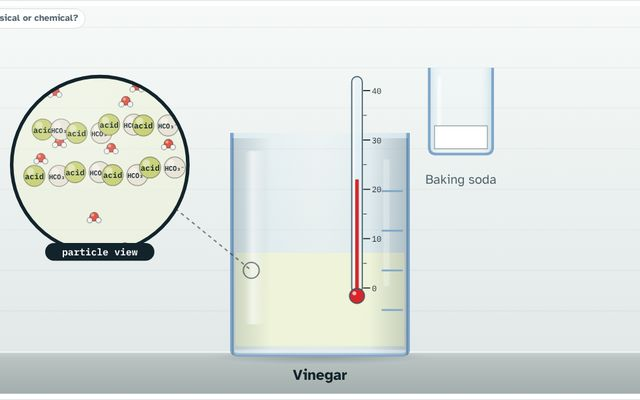
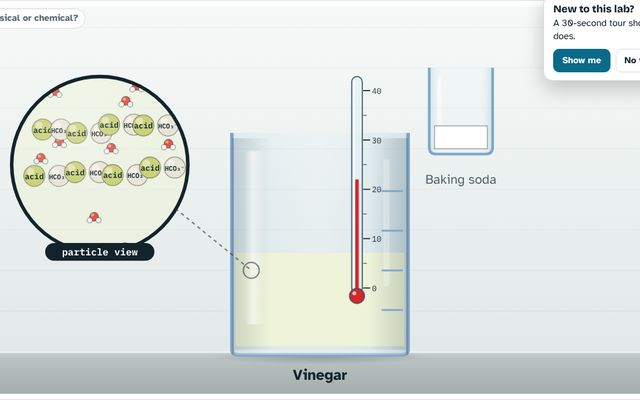
Chemical Change: Exercise screen that balances any typed equation step by step in the lab
- Student types an equation (e.g. Fe + O2 -> Fe2O3, Ca(OH)2 + HCl -> CaCl2 + H2O); it is read, checked and solved (smallest whole numbers up to 8)
- Solve it in the lab: count atoms, then set each coefficient in turn with the reason, Do it for me, check, answer
- tour.js: step option at:'bottom' with avoid, so the card keeps clear of the molecules
- site.css: phone top bar no longer wraps (theme button was dropping onto the page in 10 labs)

Claude-Session: https://claude.ai/code/session_01EJxk2nM6avKJzUWi38t4jE

Changed region(s): [[0.8438, 0.0, 1.0, 0.24]]

diff --git a/chemical-change-lab.html b/chemical-change-lab.html
@@ -124,6 +124,12 @@ footer{color:var(--muted);font-size:.85rem}
 .stage-ui .banner{padding:8px 12px;font-size:14.5px}
 .stage-ui #scrub3{width:100%}
 .stage-ui .pick[aria-pressed="true"]{background:var(--accent);border-color:var(--accent);color:var(--accent-ink)}
+.stage-ui .solo-in{padding:8px 4px 24px}
+.stage-ui .exhead{display:flex;align-items:center;justify-content:space-between;gap:12px;flex-wrap:wrap}.stage-ui .exhead h2{margin:0;font:800 1.35rem/1.2 var(--display)}
+.stage-ui .exin{display:flex;flex-direction:column;gap:6px;font-weight:700}
+.stage-ui .exin input{font:600 1.25rem var(--data);padding:10px 12px;border:1.5px solid var(--line);border-radius:10px;background:var(--stage);color:var(--ink);width:100%}
+.stage-ui .exin input[aria-invalid="true"]{border-color:var(--bad)}
+.stage-ui #exSolve svg{flex:none}
 .stage-ui .play > .extra.obsbar{height:auto;display:flex;align-items:center;gap:14px;padding:10px 12px;overflow:visible}
 .stage-ui .obsbar .obs{flex:1 1 auto;margin:0}
 .stage-ui .obsbar .read{flex:none;display:flex}
@@ -205,8 +211,17 @@ footer{color:var(--muted);font-size:.85rem}
       <p class="fb" id="fb4" hidden></p></section>
   </aside>
 </section>
+<section class="screen solo" id="p-ex" data-screens="ex" hidden><div class="solo-in">
+  <div class="exhead"><h2>Exercise: balance your equation</h2><div class="row"><button class="btn primary" type="button" id="exSolve"><svg viewBox="0 0 24 24" width="18" height="18" aria-hidden="true"><path d="M8 5l11 7-11 7z" fill="currentColor"/></svg>Solve it in the lab</button></div></div>
+  <section class="group">
+    <label class="exin"><span>Type the equation from your exercise (without the big numbers)</span><input id="exEq" type="text" autocomplete="off" spellcheck="false" autocapitalize="off" value="Fe + O2 -> Fe2O3" aria-describedby="exMsg"></label>
+    <p class="note">Write formulas with normal numbers: H2O, Ca(OH)2. Use -> or = for the arrow.</p>
+    <div class="picks" id="exEgs" aria-label="Examples"></div>
+    <p class="fb" id="exMsg" aria-live="polite"></p>
+  </section>
+</div></section>
 </main>
-<script>window.LAB = { screens: [ { id: 'signs', name: 'Signs', tab: 'signs' }, { id: 'mass', name: 'Mass', tab: 'mass' }, { id: 'atoms', name: 'Atoms', tab: 'atoms' }, { id: 'bal', name: 'Balance', tab: 'bal' } ] };</script>
+<script>window.LAB = { screens: [ { id: 'signs', name: 'Signs', tab: 'signs' }, { id: 'mass', name: 'Mass', tab: 'mass' }, { id: 'atoms', name: 'Atoms', tab: 'atoms' }, { id: 'bal', name: 'Balance', tab: 'bal' }, { id: 'ex', name: 'Exercise' } ] };</script>
 <script src="lab-svg.js"></script>
 <script>
 (function(){
@@ -563,8 +578,66 @@ $('#hint4').onclick=()=>{const e=EQ4[i4],fb=$('#fb4');fb.hidden=false;fb.classNa
 picks1();reset1();reset2();build3();reset4();
 matchMedia('(prefers-color-scheme: dark)').addEventListener('change',()=>{draw1();draw2();draw3();draw4()});
 new MutationObserver(()=>{draw1();draw2();draw3();draw4()}).observe(document.documentElement,{attributes:true,attributeFilter:['data-theme']});
+
+/* ===================== EXERCISE: balance any equation, step by step in the lab (tour.js) ===================== */
+const ELN={H:'Hydrogen',He:'Helium',Li:'Lithium',Be:'Beryllium',B:'Boron',C:'Carbon',N:'Nitrogen',O:'Oxygen',F:'Fluorine',Ne:'Neon',Na:'Sodium',Mg:'Magnesium',Al:'Aluminum',Si:'Silicon',P:'Phosphorus',S:'Sulfur',Cl:'Chlorine',Ar:'Argon',K:'Potassium',Ca:'Calcium',
+ Fe:'Iron',Cu:'Copper',Zn:'Zinc',Ag:'Silver',Au:'Gold',Pb:'Lead',Sn:'Tin',Mn:'Manganese',Cr:'Chromium',Ni:'Nickel',Co:'Cobalt',Ba:'Barium',Br:'Bromine',I:'Iodine',Hg:'Mercury',Li2:'',Sr:'Strontium',Ti:'Titanium',Pt:'Platinum',U:'Uranium'};
+const ELC={Fe:'#B5651D',Cu:'#C87533',Zn:'#8FA3B0',Ag:'#C9CED4',Au:'#E2B23C',Pb:'#5C6670',K:'#8E44AD',Ca:'#7FB77E',P:'#F08A24',Br:'#A0322D',I:'#7B3F9E',F:'#90E0A0',Si:'#C9A27E',Ba:'#59B3A2',Mn:'#9C7AB8',Cr:'#7A9CB8',Ni:'#6FA287',Hg:'#A9B4BF',Li:'#C96F6F',B:'#E9A8A0',Sn:'#9AA3AA',Co:'#3F6FB8'};
+const toAscii=t=>t.replace(/[₀-₉]/g,c=>'0123456789'['₀₁₂₃₄₅₆₇₈₉'.indexOf(c)]);
+function parseF(f){let i=0;const st=[{}];while(i<f.length){const ch=f[i];
+  if(ch==='('){st.push({});i++;continue}
+  if(ch===')'){i++;let n='';while(/\d/.test(f[i]||''))n+=f[i++];const g=st.pop(),k=n?+n:1;if(!st.length)return null;for(const e in g)st[st.length-1][e]=(st[st.length-1][e]||0)+g[e]*k;continue}
+  const m=/^([A-Z][a-z]?)(\d*)/.exec(f.slice(i));if(!m)return null;if(!ELN[m[1]])return {bad:m[1]};const k=m[2]?+m[2]:1;st[st.length-1][m[1]]=(st[st.length-1][m[1]]||0)+k;i+=m[0].length}
+ return st.length===1?st[0]:null}
+function parseEq(t){t=toAscii(String(t)).replace(/\s+/g,'').replace(/→|⟶|-+>|=+>?/g,'>');const sides=t.split('>');if(sides.length!==2||!sides[0]||!sides[1])return {err:'Use one arrow (->) between the reactants and the products.'};
+ const L=[],R=[];for(const [side,arr] of [[sides[0],L],[sides[1],R]])for(let f of side.split('+')){if(!f)return {err:'There is a + with nothing after it.'};f=f.replace(/^\d+/,'');const a=parseF(f);if(!a)return {err:'I cannot read “'+f+'”. Check the capital letters and the brackets.'};if(a.bad)return {err:'“'+a.bad+'” is not an element I know.'};arr.push({f,a})}
+ const els=[...new Set([...L,...R].flatMap(x=>Object.keys(x.a)))];for(const e of els){const l=L.some(x=>x.a[e]),r=R.some(x=>x.a[e]);if(!l||!r)return {err:(ELN[e]||e)+' ('+e+') is only on one side, so this equation cannot be balanced. Check the formulas.'}}
+ if(L.length+R.length>6)return {err:'Use at most 6 formulas.'};
+ // smallest whole numbers from 1 to 8 that balance every element
+ const sp=L.concat(R),n=sp.length,co=new Array(n).fill(1);let best=null;
+ (function rec(k){if(best)return;if(k===n){if(els.every(e=>L.reduce((s,x,i)=>s+co[i]*(x.a[e]||0),0)===R.reduce((s,x,i)=>s+co[L.length+i]*(x.a[e]||0),0)))best=co.slice();return}for(let c=1;c<=8&&!best;c++){co[k]=c;rec(k+1)}})(0);
+ if(!best)return {err:'This one needs numbers bigger than 8. The lab’s buttons only go up to 8.'};
+ const g=best.reduce((a,b)=>gcd(a,b));return {L,R,els,ans:best.map(c=>c/g)}}
+function geoOf(a){const atoms=[];Object.keys(a).sort((x,y)=>(x==='H')-(y==='H')||(x==='O')-(y==='O')).forEach(e=>{for(let k=0;k<a[e];k++)atoms.push(e)});
+ const pos=[[0,0],[26,0],[-26,0],[13,-22],[-13,-22],[13,22],[-13,22],[39,-22],[-39,-22],[39,22],[-39,22],[52,0],[-52,0],[0,-44],[0,44],[26,-44],[-26,-44],[26,44],[-26,44]];
+ const g={a:atoms.slice(0,pos.length).map((e,i)=>[e,pos[i][0],pos[i][1]]),b:[]};for(let i=1;i<g.a.length;i++){let bj=0,bd=1e9;for(let j=0;j<i;j++){const d=Math.hypot(g.a[i][1]-g.a[j][1],g.a[i][2]-g.a[j][2]);if(d<bd){bd=d;bj=j}}g.b.push([bj,i])}
+ const xs=g.a.map(q=>q[1]);return {g,w:Math.max(...xs)-Math.min(...xs)+34}}
+function useEq(P){const key=P.L.map(x=>x.f).join('+')+'>'+P.R.map(x=>x.f).join('+');let i=EQ4.findIndex(e=>e.L.concat(e.R).join('+')===P.L.map(x=>x.f).concat(P.R.map(x=>x.f)).join('+'));
+ [...P.L,...P.R].forEach(x=>{if(!GEO[x.f]){const q=geoOf(x.a);GEO[x.f]=q.g;WID[x.f]=q.w}Object.keys(x.a).forEach(e=>{if(!AT[e])AT[e]={c:ELC[e]||'#A7B0B8',r:15,m:0,name:ELN[e]||e}})});
+ if(i<0){EQ4.push({L:P.L.map(x=>x.f),R:P.R.map(x=>x.f),ans:P.ans,mine:1});i=EQ4.length-1}i4=i;reset4();return i}
+const EXEGS=['Fe + O2 -> Fe2O3','C3H8 + O2 -> CO2 + H2O','KClO3 -> KCl + O2','Ca(OH)2 + HCl -> CaCl2 + H2O','Al + HCl -> AlCl3 + H2','N2 + H2 -> NH3'];
+$('#exEgs').innerHTML=EXEGS.map(t=>`<button class="pick" type="button" data-eq="${t}">${sub(t.replace('->','→'))}</button>`).join('');
+$$('#exEgs .pick').forEach(b=>b.onclick=()=>{$('#exEq').value=b.dataset.eq;exCheck()});
+function exCheck(){const P=parseEq($('#exEq').value),m=$('#exMsg');$('#exEq').setAttribute('aria-invalid',P.err?'true':'false');m.className='fb '+(P.err?'bad':'good');
+ m.innerHTML=P.err?'<b>'+P.err+'</b>':'<b>Ready.</b> '+P.L.map(x=>sub(x.f)).join(' + ')+' → '+P.R.map(x=>sub(x.f)).join(' + ')+' · elements: '+P.els.map(e=>ELN[e]+' ('+e+')').join(', ')+'.';return P.err?null:P}
+$('#exEq').addEventListener('input',exCheck);$('#exEq').addEventListener('keydown',e=>{if(e.key==='Enter')exSolve()});exCheck();
+function exSolve(){const P=exCheck();if(!P||!window.Tour)return;
+ const sp=P.L.concat(P.R),nL=P.L.length,ans=P.ans,side=i=>i<nL?'L':'R',cnt=(e,i)=>sp[i].a[e]||0,tot=i=>Object.values(sp[i].a).reduce((a,b)=>a+b,0);
+ const atomsTxt=(i,c)=>Object.keys(sp[i].a).map(e=>c*cnt(e,i)+' '+e).join(', ');
+ // the order: the biggest formula first, single elements last; each next formula is the one an element now fixes
+ const set=new Set(),plan=[];const isEl=i=>Object.keys(sp[i].a).length===1;
+ let first=sp.map((x,i)=>i).sort((a,b)=>(isEl(a)-isEl(b))||tot(b)-tot(a))[0];plan.push({i:first,why:null});set.add(first);
+ while(set.size<sp.length){let pick=null;for(const i of sp.map((x,k)=>k).filter(k=>!set.has(k)).sort((a,b)=>isEl(a)-isEl(b))){for(const e of Object.keys(sp[i].a)){const others=sp.map((x,k)=>k).filter(k=>k!==i&&cnt(e,k));if(others.every(k=>set.has(k))){pick={i,e};break}}if(pick)break}
+  if(!pick){const i=sp.map((x,k)=>k).find(k=>!set.has(k));pick={i,e:Object.keys(sp[i].a)[0]}}plan.push({i:pick.i,why:pick.e});set.add(pick.i)}
+ const calc=t=>'<div class="t-calc">'+t+'</div>',F=i=>sub(sp[i].f),eqTxt=c=>P.L.map((x,i)=>(c&&c[i]>1?c[i]:'')+sub(x.f)).join(' + ')+' → '+P.R.map((x,i)=>(c&&c[nL+i]>1?c[nL+i]:'')+sub(x.f)).join(' + ');
+ const stepEl=i=>()=>{const b=document.querySelector('#eq4 .step button[data-i="'+i+'"]');return b&&b.parentElement};
+ const steps=[{title:'Balance it in the lab',html:'<p>Your equation: <b>'+eqTxt()+'</b></p><p>We count the atoms on each side, then put one number in front of each formula until every element matches.</p><p class="note">The lab balances the formulas exactly as you typed them, so check them first.</p>',
+   onShow:()=>{const b=document.querySelector('.lg-nav [data-ph="bal"]');if(b&&document.documentElement.getAttribute('data-screen')!=='bal')b.click();useEq(P)}},
+  {el:()=>$('#count4').closest('.group'),title:'Count the atoms',html:'<p>With a 1 in front of every formula, this table counts each kind of atom on the left and on the right. The ✗ rows do not match yet.</p><p><b>Only change the big numbers in front.</b> The small numbers belong to the formula: changing them would make a different substance.</p>'}];
+ plan.forEach((p,k)=>{const i=p.i,c=ans[i];let why;
+  if(p.why==null)why='Start with '+F(i)+', the formula with the most atoms. We need '+c+' of '+(c>1?'them':'it')+': '+c+' × '+F(i)+' = '+atomsTxt(i,c)+'.';
+  else{const e=p.why,k1=cnt(e,i),oth=sp.map((x,q)=>q).filter(q=>q!==i&&cnt(e,q)),opp=oth.filter(q=>side(q)!==side(i)),same=oth.filter(q=>side(q)===side(i)),N=opp.reduce((s,q)=>s+ans[q]*cnt(e,q),0),Sm=same.reduce((s,q)=>s+ans[q]*cnt(e,q),0);
+   const one=Object.keys(sp[i].a).length===1&&k1===1,need=N-Sm;
+   why=ELN[e]+' ('+e+'): the '+(side(i)==='L'?'right':'left')+' side has '+N+' '+e+'.'+(Sm?' '+Sm+' of them are already on this side, so '+need+' more are needed.':'')+(one?' Each '+F(i)+' is one atom, so we need '+c+' × '+F(i)+'.':' Each '+F(i)+' has '+k1+' '+e+', so we need '+need+' ÷ '+k1+' = '+c+' × '+F(i)+'.')}
+  steps.push({el:stepEl(i),at:'bottom',avoid:'#s4 circle, #count4',title:'Set the number in front of '+F(i),html:'<p>'+why+'</p><p>'+(c===1?'It already shows <b>1</b>, so leave it.':'Press <b>+</b> or <b>−</b> until it shows <b>'+c+'</b>.')+'</p>',
+   wait:()=>co4[i]===c,doIt:()=>{co4[i]=c;render4()},done:()=>{const[cL,cR]=counts4();const fixed=Object.keys(sp[i].a).filter(e=>cL[e]===cR[e]);return c+' × '+F(i)+(fixed.length?'. Now '+fixed.map(e=>e).join(' and ')+' match'+(fixed.length>1?'':'es')+'.':'.')},auto:1100})});
+ steps.push({el:'#ban4',title:'Check',html:'<p>Every row of the table should show ✓, and the numbers should be the smallest whole numbers.</p>',wait:()=>{const[cL,cR]=counts4();return Object.keys(cL).every(k=>cL[k]===cR[k])},done:'Balanced! The same atoms are on both sides, so mass is conserved.'});
+ steps.push({title:'Your answer',html:calc(eqTxt(ans)+'\n\n'+P.els.map(e=>e+': '+P.L.reduce((s,x,i)=>s+ans[i]*(x.a[e]||0),0)+' on each side').join('\n'))+'<p>Compare it with your own working.</p>'});
+ setTimeout(()=>Tour.start(steps,{label:'Exercise',skipText:'Stop',doneText:'Finish',lazy:true}),80)}
+$('#exSolve').onclick=exSolve;
 })();
 </script>
 
+<script src="tour.js" defer></script>
 <script src="lab-guide.js" defer></script>
 </body></html>

diff --git a/tour.js b/tour.js
@@ -24,7 +24,7 @@
     '.tour-tip button.t-skip{border:0;color:var(--muted,#55666E);padding:0 6px}.tour-tip button:focus-visible{outline:3px solid var(--focus,#E2632B);outline-offset:2px}' +
     '.tour-tip .t-arrow{position:absolute;width:14px;height:14px;background:inherit;border:inherit;transform:rotate(45deg)}' +
     '.tour-tip[data-place="below"] .t-arrow{top:-8px;border-right:0;border-bottom:0}.tour-tip[data-place="above"] .t-arrow{bottom:-8px;border-left:0;border-top:0}' +
-    '.tour-tip[data-place="right"] .t-arrow{left:-8px;border-top:0;border-right:0}.tour-tip[data-place="left"] .t-arrow{right:-8px;border-bottom:0;border-left:0}.tour-tip[data-place="sheet"] .t-arrow{display:none}' +
+    '.tour-tip[data-place="right"] .t-arrow{left:-8px;border-top:0;border-right:0}.tour-tip[data-place="left"] .t-arrow{right:-8px;border-bottom:0;border-left:0}.tour-tip[data-place="sheet"] .t-arrow,.tour-tip[data-place="bottom"] .t-arrow{display:none}' +
     '.tour-offer{position:fixed;z-index:990;width:min(300px,calc(100vw - 24px));background:var(--surface,#fff);color:var(--ink,#13232B);border:1px solid var(--line,#D9DCE1);border-radius:14px;padding:12px 14px;box-shadow:0 12px 32px rgba(0,0,0,.22);font:14.5px/1.4 var(--body,system-ui,sans-serif);animation:tourIn .35s cubic-bezier(.2,.7,.2,1) both}' +
     '.tour-offer b{display:block;font:800 16px/1.2 var(--display,system-ui,sans-serif);margin-bottom:2px}.tour-offer .t-row{display:flex;gap:8px;margin-top:10px}' +
     '.tour-offer button{font:700 14px/1 var(--body,system-ui,sans-serif);border-radius:9px;min-height:36px;padding:0 13px;cursor:pointer;border:1px solid var(--line,#D9DCE1);background:transparent;color:var(--ink,#13232B)}.tour-offer button.go{background:var(--accent,#0A6A88);border-color:var(--accent,#0A6A88);color:var(--on-accent,#fff)}' +
@@ -102,7 +102,13 @@
         set(shades[0], 0, 0, W, T); set(shades[1], 0, B, W, H - B); set(shades[2], 0, T, L, B - T); set(shades[3], R, T, W - R, B - T);
         cover.style.display = typeof s.wait === 'function' || s.interactive ? 'none' : ''; set(cover, L, T, R - L, B - T);
       } else { hole.style.display = 'none'; shades.forEach(function (d, k) { d.style.inset = 'auto'; d.style.left = '0'; d.style.top = '0'; d.style.width = k ? '0' : '100vw'; d.style.height = k ? '0' : '100vh'; }); cover.style.display = 'none'; }
-      if (!r) { pl = 'sheet'; x = (W - tw) / 2; y = (H - th) / 2; }
+      var nav = s.at === 'bottom' && document.querySelector('.lg-nav'), nb = nav && nav.getClientRects().length ? nav.getBoundingClientRect().top : H, by = nb - th - 12;
+      if (r && s.at === 'bottom' && W >= 560 && by > r.bottom + gap) { pl = 'bottom'; y = by; x = r.left + r.width / 2 - tw / 2;
+        // s.avoid: things the card should not cover (e.g. the drawn molecules); try a few spots along the bottom and keep the clearest
+        if (s.avoid) { var av = Array.prototype.map.call(document.querySelectorAll(s.avoid), function (q) { return q.getBoundingClientRect(); }), best = 1e18;
+          for (var cx = 12; cx <= W - tw - 12; cx += 40) { var ov = 0; av.forEach(function (q) { ov += Math.max(0, Math.min(cx + tw, q.right) - Math.max(cx, q.left)) * Math.max(0, Math.min(by + th, q.bottom) - Math.max(by, q.top)); });
+            ov += Math.abs(cx + tw / 2 - (r.left + r.width / 2)) * 0.01; if (ov < best) { best = ov; x = cx; } } } }
+      else if (!r) { pl = 'sheet'; x = (W - tw) / 2; y = (H - th) / 2; }
       else if (W < 560) { pl = 'sheet'; x = (W - tw) / 2; y = r.bottom + gap + th < H - 8 ? r.bottom + gap : r.top - gap - th > 8 ? r.top - gap - th : H - th - 12; }
       else if (r.bottom + gap + th < H - 8) { pl = 'below'; y = r.bottom + gap; x = r.left + r.width / 2 - tw / 2; }
       else if (r.top - gap - th > 8) { pl = 'above'; y = r.top - gap - th; x = r.left + r.width / 2 - tw / 2; }

diff --git a/site.css b/site.css
@@ -154,7 +154,7 @@ html.stage-ui [hidden]{display:none!important}
 html.stage-ui :focus-visible{outline:3px solid var(--focus);outline-offset:2px}
 
 /* top bar */
-.stage-ui .topbar{position:fixed;top:0;left:0;right:0;z-index:57;height:calc(var(--tb-h) + env(safe-area-inset-top,0px));display:flex;align-items:center;gap:12px;
+.stage-ui .topbar{position:fixed;top:0;left:0;right:0;z-index:57;flex-wrap:nowrap;height:calc(var(--tb-h) + env(safe-area-inset-top,0px));display:flex;align-items:center;gap:12px;
   padding:env(safe-area-inset-top,0px) max(14px,env(safe-area-inset-right,0px)) 0 max(10px,env(safe-area-inset-left,0px));background:var(--surface);border-bottom:1px solid var(--line)}
 .stage-ui .topbar h1{margin:0;font:800 20px/1.1 var(--display);letter-spacing:-.01em;white-space:nowrap;overflow:hidden;text-overflow:ellipsis;min-width:0}
 .stage-ui .tb-back{flex:none;display:inline-flex;align-items:center;justify-content:center;width:40px;height:40px;border-radius:8px;color:var(--ink);text-decoration:none}
